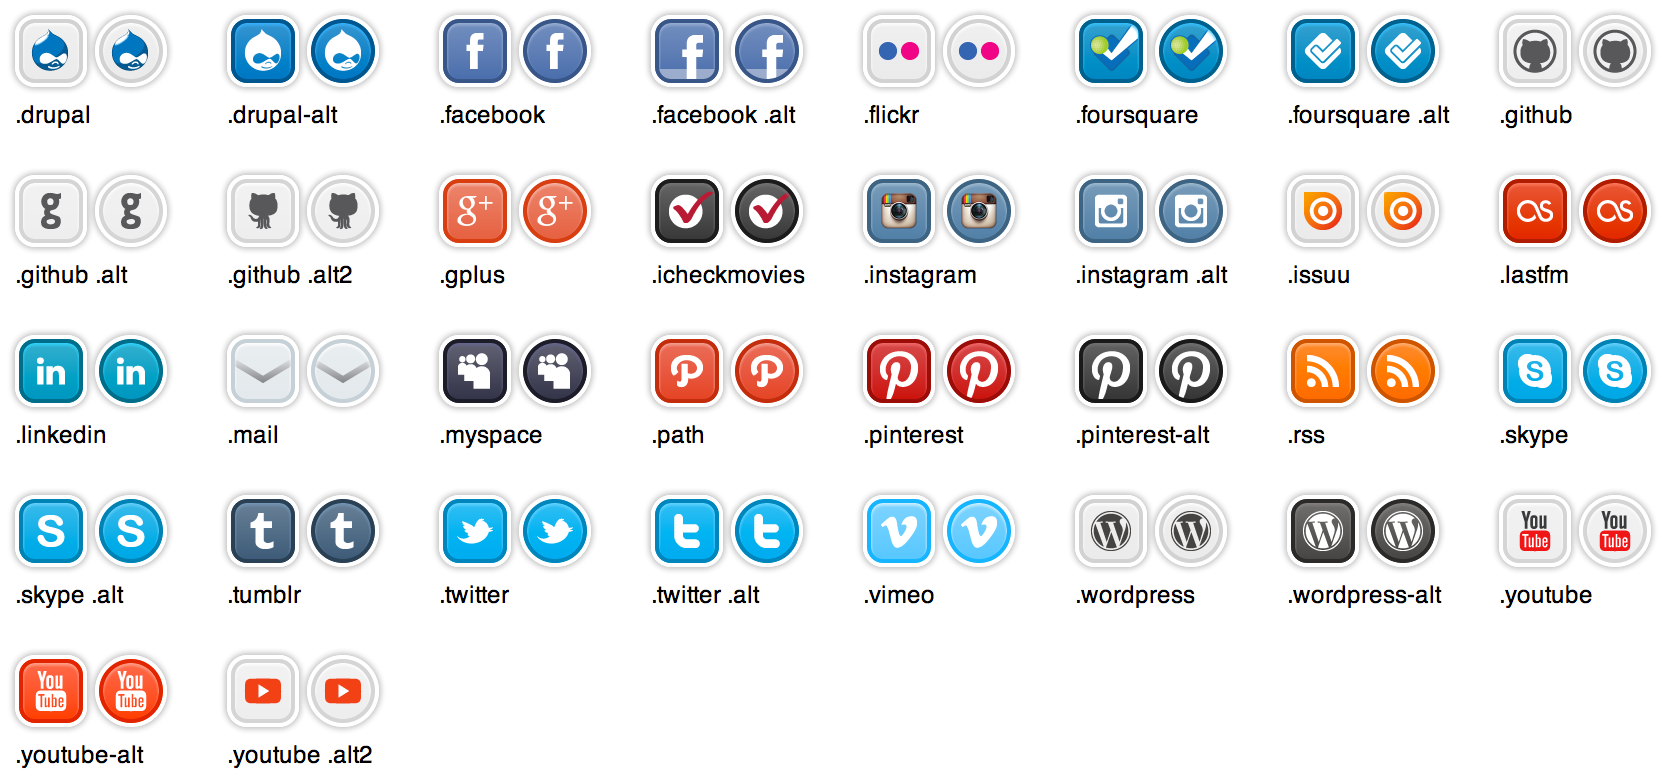
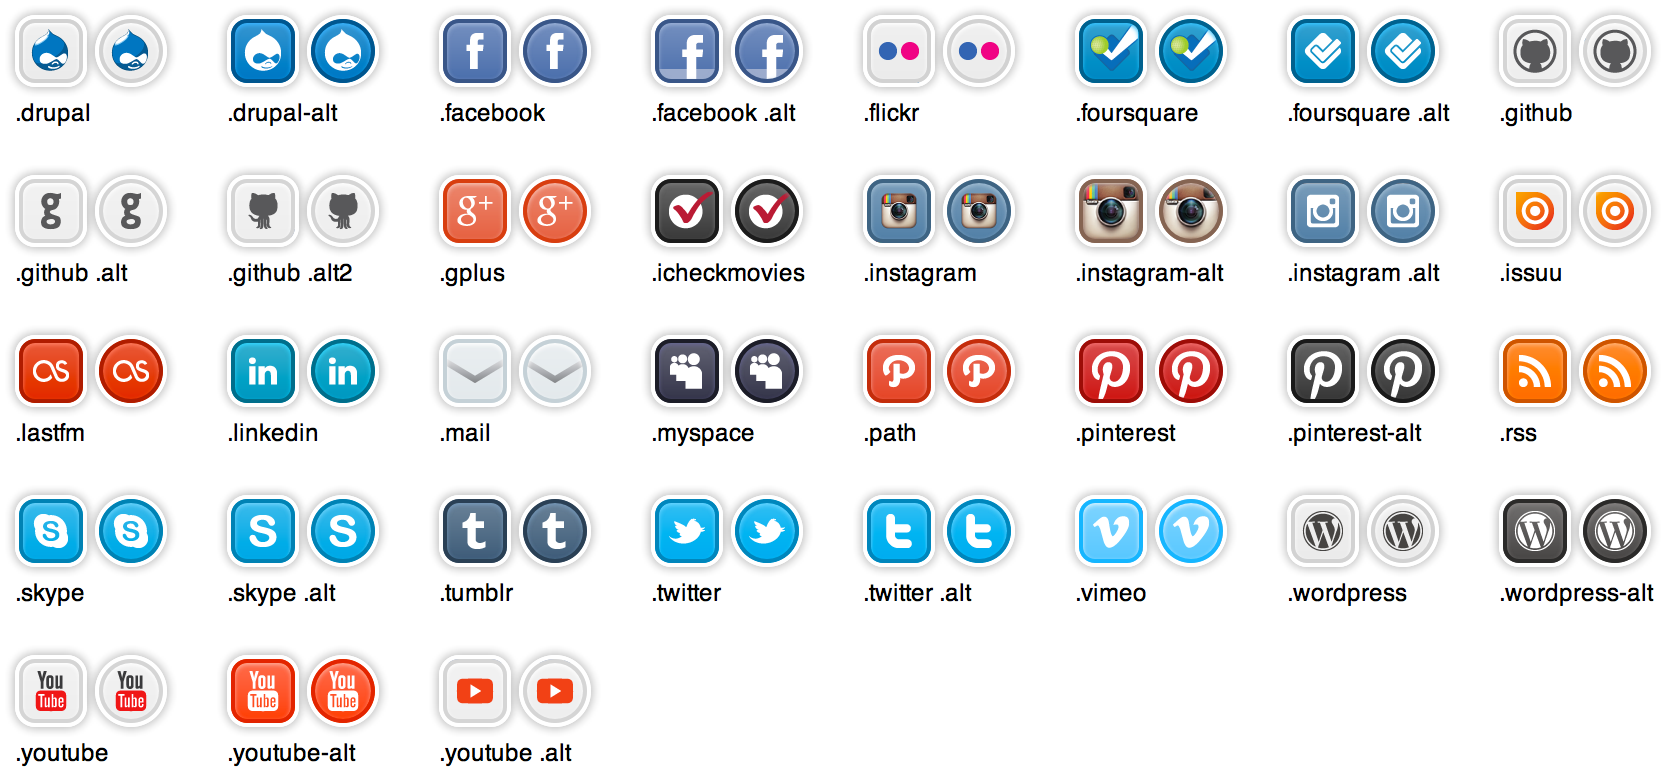
Updated previews to v.1.5.1

diff --git a/index.html b/index.html
@@ -113,6 +113,12 @@
 			</div>
 
 			<div class="btn-container">
+				<a href="#" class="social-btn rounded instagram-alt"></a>
+				<a href="#" class="social-btn instagram-alt"></a>
+				<span>.instagram-alt</span>
+			</div>
+
+			<div class="btn-container">
 				<a href="#" class="social-btn rounded instagram alt"></a>
 				<a href="#" class="social-btn instagram alt"></a>
 				<span>.instagram .alt</span>
@@ -235,7 +241,7 @@
 			<div class="btn-container">
 				<a href="#" class="social-btn rounded youtube alt"></a>
 				<a href="#" class="social-btn youtube alt"></a>
-				<span>.youtube .alt2</span>
+				<span>.youtube .alt</span>
 			</div>
 		</div>
   </body>

diff --git a/README.md b/README.md
@@ -76,7 +76,7 @@ Don't want fully rounded buttons? Add the class `rounded` for a button with just
 - `github` [`alt` | `alt2`]
 - `gplus`
 - `icheckmovies`
-- `instragram` [`alt`] **!new**
+- `instagram` [`alt`] | `instagram-alt` **!new**
 - `issuu`
 - `lastfm`
 - `linkedin`
@@ -97,6 +97,11 @@ Don't want fully rounded buttons? Add the class `rounded` for a button with just
 ## Changelog ##
 
 **[!]** = Can cause issues when updating from older version
+
+**v.1.5.1**
+
+- Added a second alternative button for Instagram: `instagram-alt` (larger icon and brown border).
+- **[!]** Switched `instagram-alt` and `instragram alt` in the sprite image.
 
 **v.1.5.0**
 
